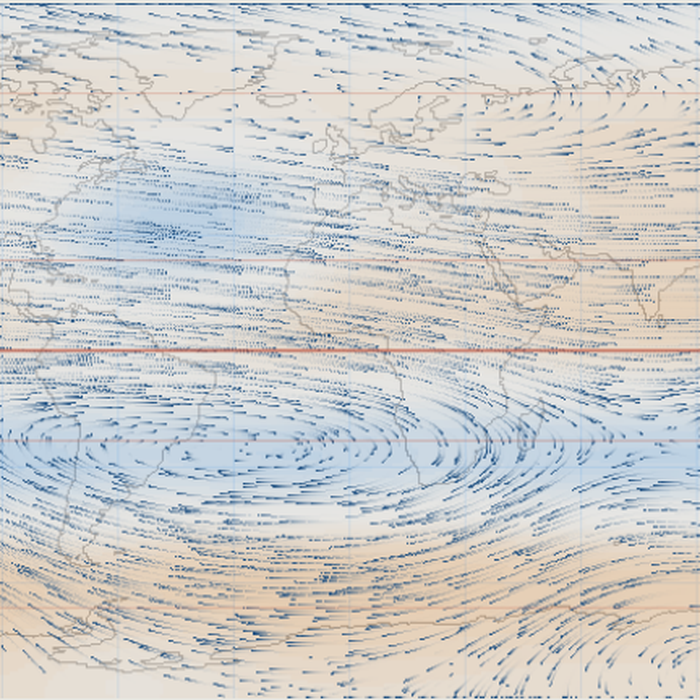
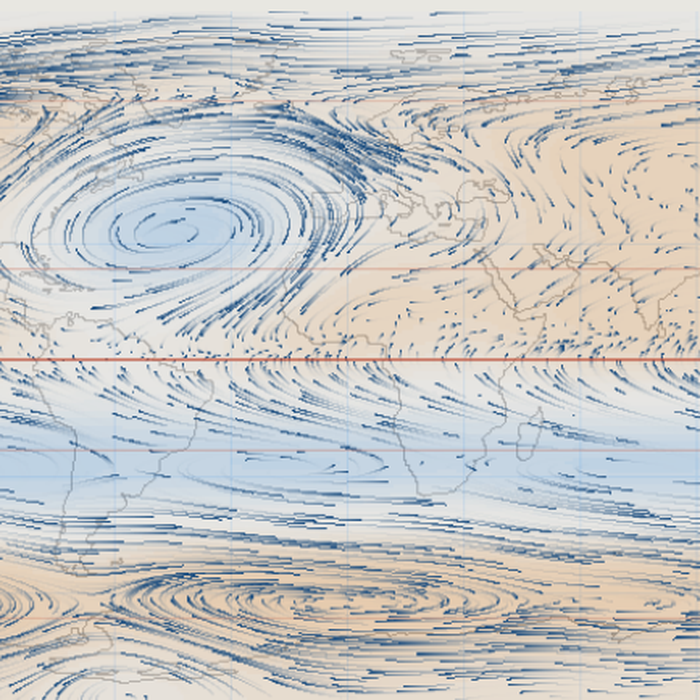
fix(circulation): the sampler was clamping to the old 160x72 grid
Root cause of every 'the wind direction is wrong' report since the Taichi rewrite: _bilinear clamped its coordinates against the module-level W=160, H=72 that belonged to the original 160x72 grid, while the wind field it was reading is 360x180. x was therefore wrapped into [0,160) and y clamped to [0,72), so particles sampled a small patch in the south-west corner of the field instead of their own position - directions were arbitrary, and only showed up once particles moved fast enough to travel into that region. _bilinear now takes the field's own shape, and the particle step converts screen coordinates with the field dimensions too. Verified: 45N 30W travels +47 px east, 15N 40W -19 px west, 45S 30E +39 px east. Advection follows the requested scheme as well - small dt with several steps per frame, splatting the trail at every step instead of only at frame boundaries, so a fast particle still draws a continuous line.

diff --git a/apps/Physics/Circulation.py b/apps/Physics/Circulation.py
@@ -72,14 +72,15 @@ def _blur_y(a, sigma):
 
 
 def _bilinear(field, x, y):
-    x = np.mod(x, W - 1e-6)
-    y = np.clip(y, 0.0, H - 1.001)
+    Hf, Wf = field.shape          # 必须用数组自己的尺寸（风场是 360×180）
+    x = np.mod(x, Wf - 1e-6)
+    y = np.clip(y, 0.0, Hf - 1.001)
     x0 = x.astype(np.int32)
     y0 = y.astype(np.int32)
     fx = x - x0
     fy = y - y0
-    x1 = (x0 + 1) % W
-    y1 = np.minimum(y0 + 1, H - 1)
+    x1 = (x0 + 1) % Wf
+    y1 = np.minimum(y0 + 1, Hf - 1)
     return (field[y0, x0] * (1 - fx) * (1 - fy) + field[y0, x1] * fx * (1 - fy)
             + field[y1, x0] * (1 - fx) * fy + field[y1, x1] * fx * fy)
 
@@ -296,7 +297,9 @@ class CirculationApp(QMainWindow):
         self._season_tick = 0
         self._pressure_rgb = None
         self._rng = np.random.default_rng(7)
-        self.substeps = 3      # 每帧推进的子步数
+        self.substeps = 5      # 每帧推进的子步数（每步 dt 很小）
+        self._buf_x = np.full((self.BH, self.BW), -1.0, np.float32)
+        self._buf_y = np.full((self.BH, self.BW), -1.0, np.float32)
 
         self.frame = None
         self._base = None
@@ -330,7 +333,7 @@ class CirculationApp(QMainWindow):
             self._wphase = 0.0
         mag = np.hypot(self._wu, self._wv)
         self._wref = max(1e-6, float(np.percentile(mag, 80)))
-        self._wgain = self.BW / 144.0 * 0.30          # 参考的 1 像素/帧是相对 144 宽
+        self._wgain = self.BW / 144.0 * 0.65          # 参考的 1 像素/帧是相对 144 宽
 
     # ---------- 静态底图 ----------
     def _build_base(self):
@@ -400,44 +403,57 @@ class CirculationApp(QMainWindow):
         return base * 0.48 + pr * 0.52
 
     # ---------- 粒子推进（照 getPosition 的规则） ----------
-    def _step_particles(self, px, py, dens, spawn, die):
-        """每个像素最多一个粒子；一步移动 <1 格，拖尾 0.9 衰减。
+    def _step_particles(self, px, py, dens, spawn, steps):
+        """每个像素最多一个粒子。
 
-        速度直接对风场双线性采样，这样季节插值才真正作用到粒子上。
+        关键：**每步 dt 很小**（远小于一格），一帧走多步，每步都往拖尾上打点。
+        一步跨太大时中间格子留不下痕迹，粒子就成了一条条跳跃的点，方向看着就乱。
         """
         BH, BW = self.BH, self.BW
-        alive = px >= 0
-        ys, xs = np.nonzero(alive)
-        new_px = np.full((BH, BW), -1.0, np.float32)
-        new_py = np.full((BH, BW), -1.0, np.float32)
+        dt = self._wgain / steps                      # 每步位移（像素）
+        decay = 0.90 ** (1.0 / steps)                 # 每步衰减，整帧仍是 0.9
 
-        if len(ys):
-            keep = self._rng.random(len(ys)) > die
-            ys, xs = ys[keep], xs[keep]
-            mx = px[ys, xs] / BW * W
-            my = (1.0 - py[ys, xs] / BH) * H
-            uu = _bilinear(self._wu, mx, my)
-            vv = _bilinear(self._wv, mx, my)
-            m = np.hypot(uu, vv)
-            k = np.clip(m / self._wref, 0.0, 1.0) / np.maximum(m, 1e-9)
-            nx = np.mod(px[ys, xs] + uu * k * self._wgain, BW)
-            ny = np.clip(py[ys, xs] - vv * k * self._wgain, 0, BH - 1)
-            tx = np.clip(nx.astype(np.int32), 0, BW - 1)
-            ty = np.clip(ny.astype(np.int32), 0, BH - 1)
-            new_px[ty, tx] = nx
-            new_py[ty, tx] = ny
+        for _ in range(steps):
+            alive = px >= 0
+            ys, xs = np.nonzero(alive)
+            nx_buf = self._buf_x
+            ny_buf = self._buf_y
+            nx_buf.fill(-1.0)
+            ny_buf.fill(-1.0)
 
-        empty = (new_px < 0).sum()
-        k = self._rng.poisson(spawn * empty)
-        if k > 0:
-            cy = self._rng.integers(0, BH, k)
-            cx = self._rng.integers(0, BW, k)
-            new_px[cy, cx] = cx + self._rng.random(k)
-            new_py[cy, cx] = cy + self._rng.random(k)
+            if len(ys):
+                keep = self._rng.random(len(ys)) > 0.004 / steps
+                ys, xs = ys[keep], xs[keep]
+                Hf, Wf = self._wu.shape
+                mx = px[ys, xs] / BW * Wf
+                my = (1.0 - py[ys, xs] / BH) * Hf
+                uu = _bilinear(self._wu, mx, my)
+                vv = _bilinear(self._wv, mx, my)
+                m = np.hypot(uu, vv)
+                k = np.clip(m / self._wref, 0.0, 1.0) / np.maximum(m, 1e-9)
+                nx = np.mod(px[ys, xs] + uu * k * dt, BW)
+                ny = np.clip(py[ys, xs] - vv * k * dt, 0, BH - 1)
+                tx = np.clip(nx.astype(np.int32), 0, BW - 1)
+                ty = np.clip(ny.astype(np.int32), 0, BH - 1)
+                nx_buf[ty, tx] = nx
+                ny_buf[ty, tx] = ny
 
-        dens *= 0.90
-        dens[new_px >= 0] = 1.0
-        return new_px, new_py, dens
+            # 稀疏诞生
+            empty = (nx_buf < 0).sum()
+            k = self._rng.poisson(spawn / steps * empty)
+            if k > 0:
+                cy = self._rng.integers(0, BH, k)
+                cx = self._rng.integers(0, BW, k)
+                nx_buf[cy, cx] = cx + self._rng.random(k)
+                ny_buf[cy, cx] = cy + self._rng.random(k)
+
+            dens *= decay
+            dens[nx_buf >= 0] = 1.0
+            px, nx_buf = nx_buf, px                    # 交换缓冲，避免每次分配
+            py, ny_buf = ny_buf, py
+            self._buf_x, self._buf_y = nx_buf, ny_buf
+
+        return px, py, dens
 
     # ---------- 合成 ----------
     def _blend_wind(self):
@@ -496,10 +512,8 @@ class CirculationApp(QMainWindow):
 
         if self.show_wind:
             # 每帧走多步：步数上去，粒子看起来才够快
-            for _k in range(self.substeps):
-                self._px_w, self._py_w, self._dens_w = self._step_particles(
-                    self._px_w, self._py_w, self._dens_w,
-                    0.0 if _k else 2.0e-4, 5e-3)
+            self._px_w, self._py_w, self._dens_w = self._step_particles(
+                self._px_w, self._py_w, self._dens_w, 7.0e-5, self.substeps)
         else:
             self._dens_w *= 0.9
         self._compose()
